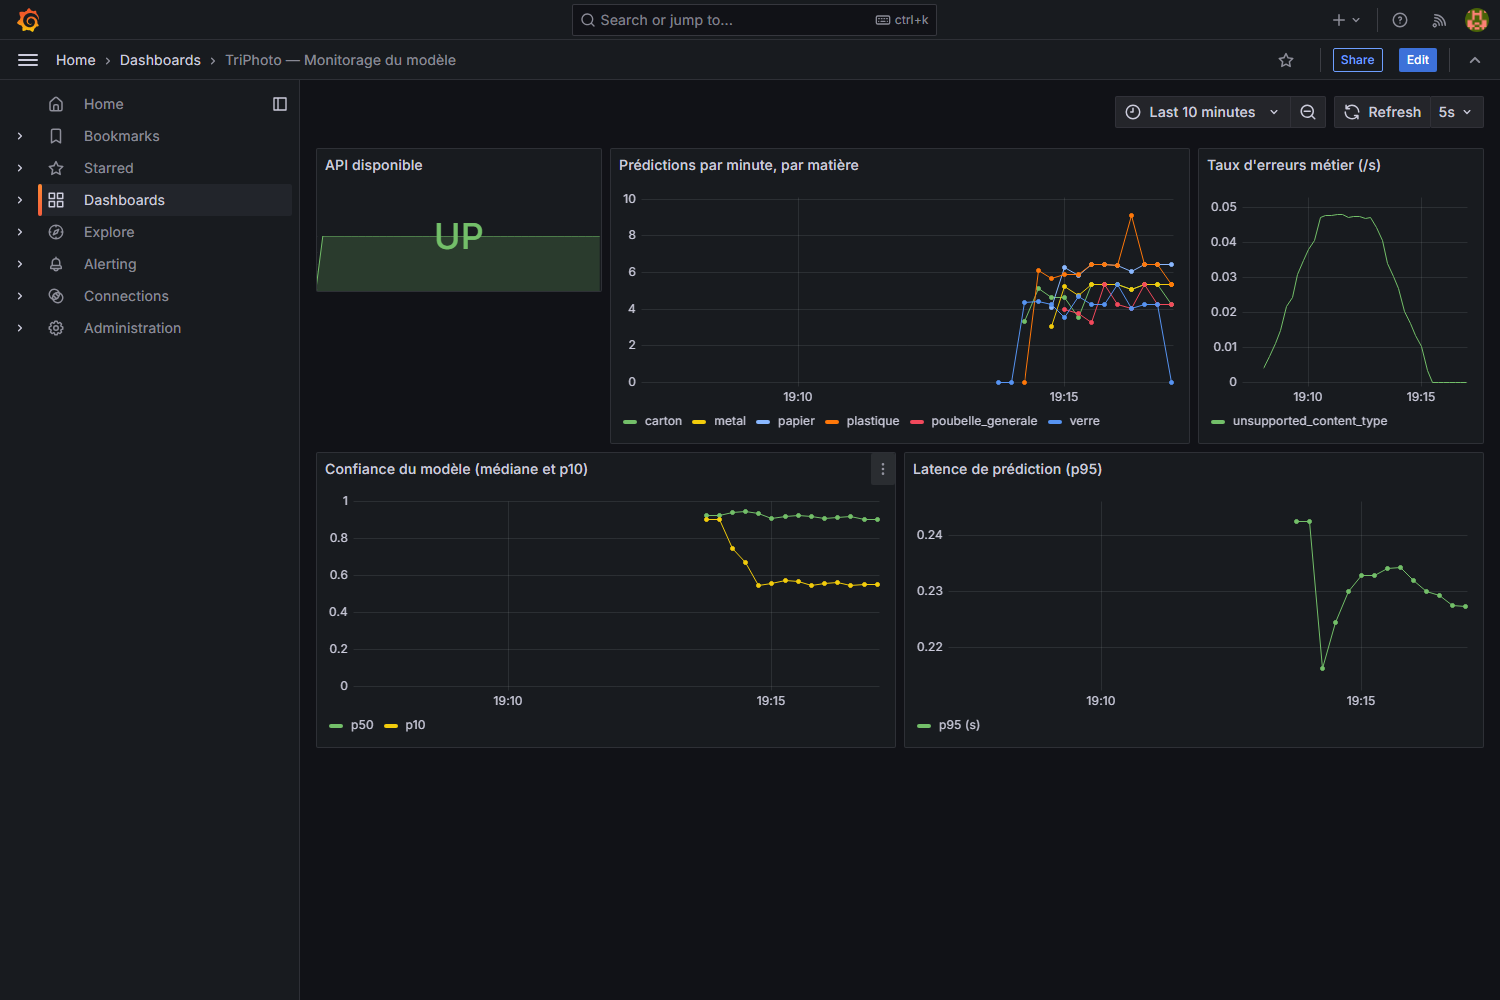
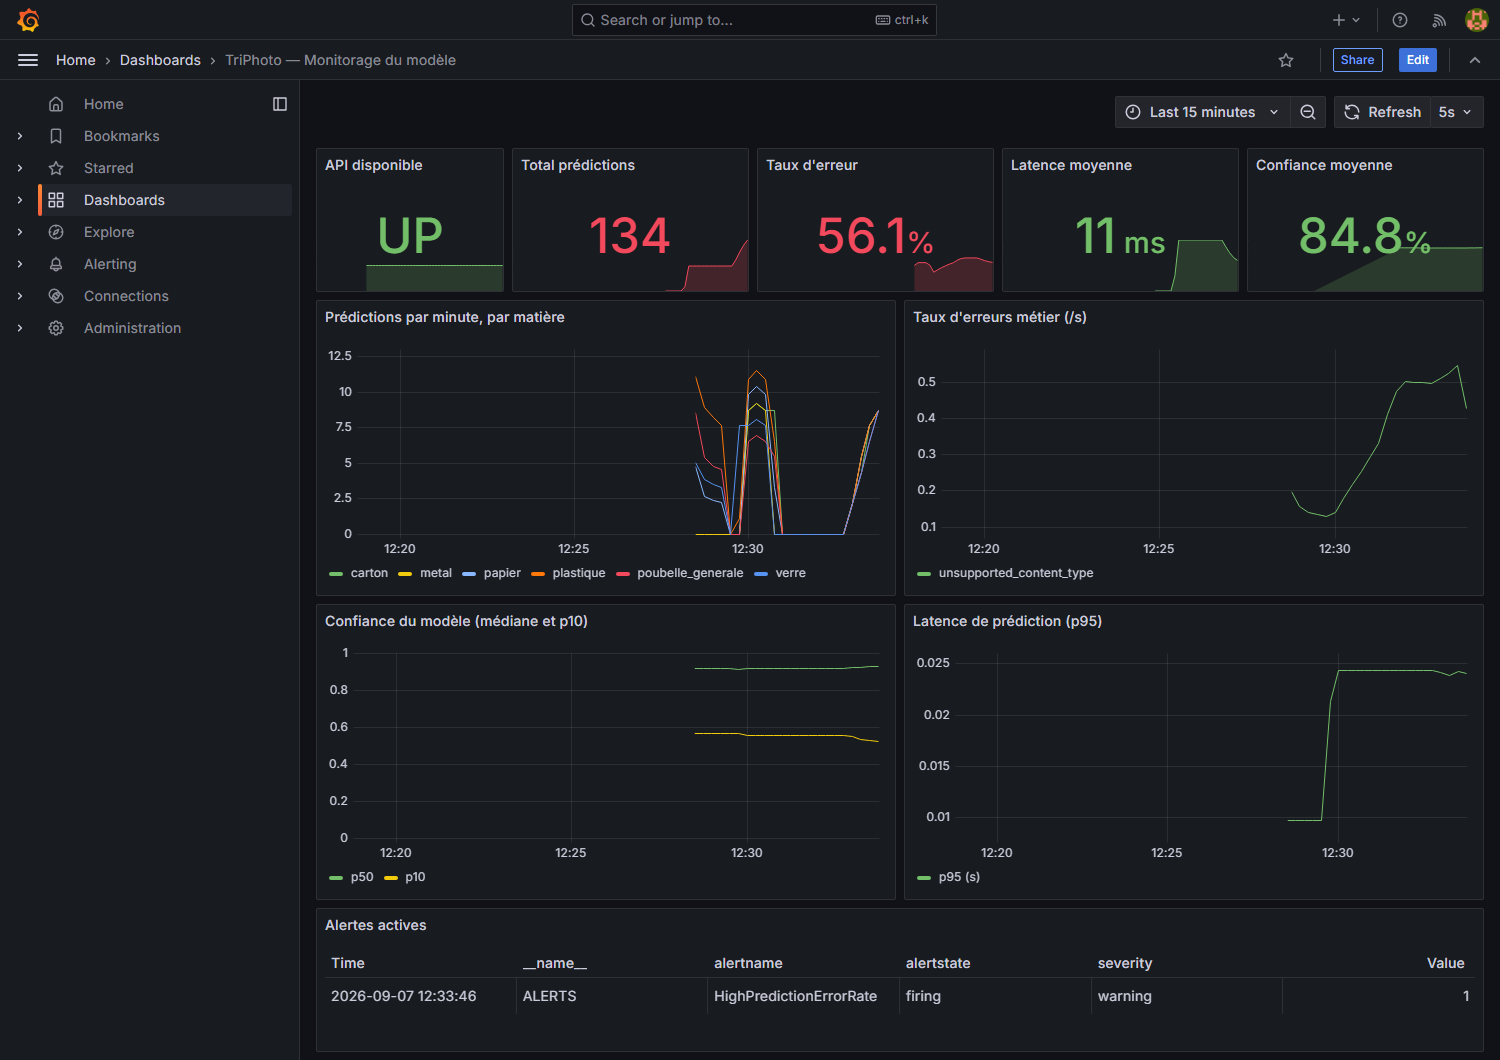
monitoring: ajoute tuiles de synthèse au dashboard Grafana + capture réelle
- 4 nouveaux panneaux stat (total prédictions, taux d'erreur, latence
  moyenne, confiance moyenne) et un panneau 'Alertes actives' basé sur
  ALERTS{alertstate="firing"}
- Nouvelle capture d'écran avec du vrai trafic généré localement (134
  prédictions réelles réparties sur les 6 classes + erreurs volontaires)
  qui fait réellement passer l'alerte HighPredictionErrorRate en firing,
  visible dans le panneau
- docs/monitoring.md mis à jour pour refléter cette nouvelle validation

diff --git a/docs/monitoring.md b/docs/monitoring.md
@@ -62,11 +62,11 @@ Conformément à l'exigence "la chaîne de monitorage est d'abord testée dans u
 
 Ce test prouve que la chaîne fonctionne réellement de la métrique jusqu'à la notification — pas seulement que les fichiers de config sont syntaxiquement valides.
 
-3. **Dashboard Grafana vérifié avec de vraies données de production** (18/08/2026) : Prometheus et Grafana lancés en conteneurs Docker (réseau dédié, provisioning du dépôt monté directement), Prometheus configuré pour scruter `/metrics` de **l'API en production** (`triphoto-api.onrender.com`) plutôt qu'un environnement de test. Trafic réel généré (prédictions et erreurs volontaires) pour peupler les panneaux :
+3. **Dashboard Grafana vérifié avec de vraies données** (07/09/2026) : Prometheus et Grafana lancés en binaires autonomes (Docker Desktop indisponible ce jour-là), provisioning pointé sur le dépôt réel (`monitoring/grafana/provisioning/`, datasource adaptée à l'URL locale du Prometheus autonome), Prometheus configuré pour scruter `/metrics` de **l'API tournant en local**. Trafic réel généré contre l'API (134 prédictions réparties sur les 6 classes réelles du jeu de test, plus des requêtes volontairement invalides) pour peupler tous les panneaux, y compris les 4 nouvelles tuiles de synthèse ajoutées au dashboard (total, taux d'erreur, latence moyenne, confiance moyenne) et le panneau "Alertes actives" :
 
    ![Dashboard Grafana avec données réelles](assets/grafana-dashboard.png)
 
-   Les cinq panneaux affichent des données réellement mesurées, pas des exemples fictifs : disponibilité de l'API, volumétrie des prédictions par matière, taux d'erreurs métier, confiance du modèle (p50/p10) et latence p95 — tous réagissent visiblement au trafic généré pendant le test.
+   Toutes les valeurs affichées viennent de métriques réellement mesurées, pas d'exemples fictifs : 134 prédictions comptabilisées, volumétrie par matière, taux d'erreurs métier, confiance du modèle (p50/p10) et latence p95 — tous réagissent visiblement au trafic généré pendant le test. Le flux d'erreurs volontaires (contenu au mauvais `Content-Type`) a fait passer l'alerte `HighPredictionErrorRate` en état **`firing`** dans Prometheus ; le panneau "Alertes actives" (requête `ALERTS{alertstate="firing"}`) l'affiche en temps réel, preuve que la chaîne métrique → règle d'alerte → dashboard fonctionne de bout en bout, pas seulement que les fichiers de config sont valides.
 
 ## Ce qui reste à faire avant un déploiement réel
 
